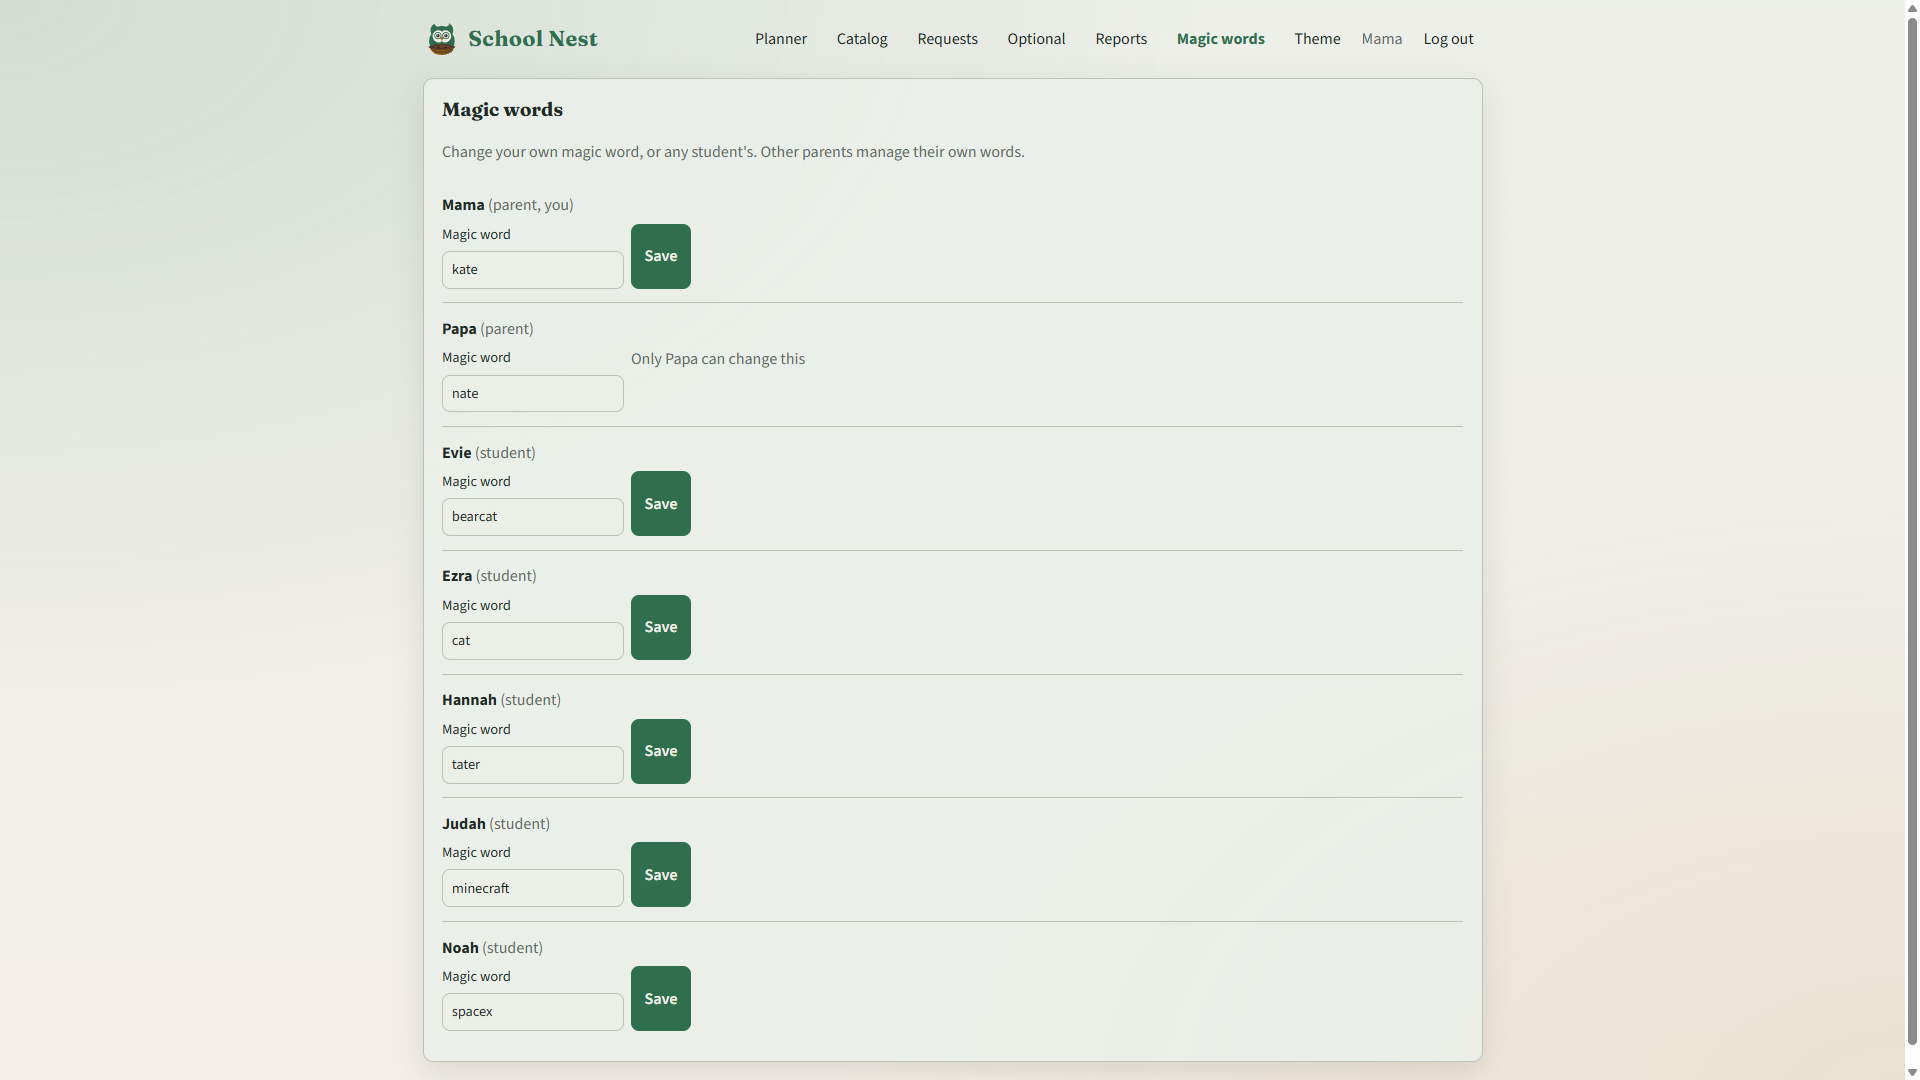
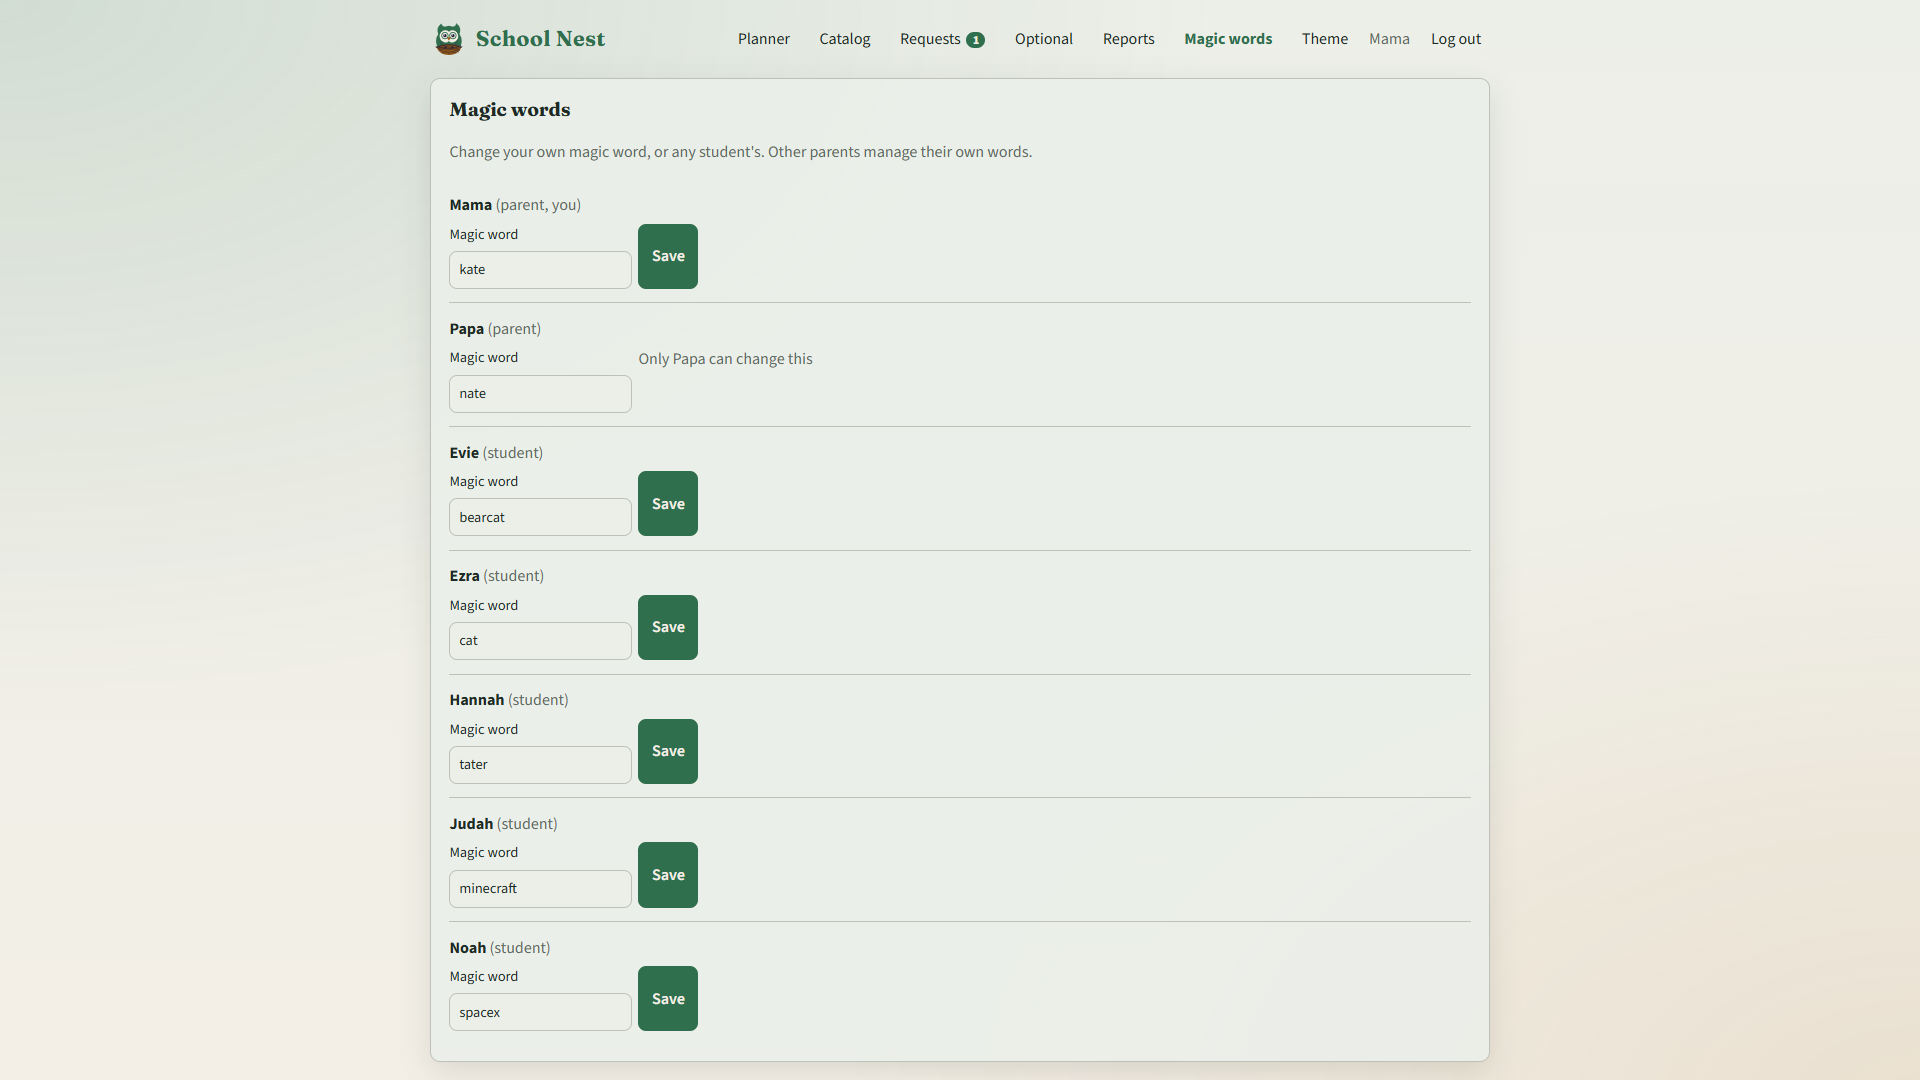
Refresh audit screenshots and put Theme fonts above presets.
Recapture walkthrough images against current planner/Today data, update the README for the drag planner and seeded optionals, and move Fonts above Presets on the theme page.

diff --git a/src/SchoolTracking/wwwroot/theme.html b/src/SchoolTracking/wwwroot/theme.html
@@ -22,15 +22,15 @@
     <div class="theme-layout">
       <div>
         <section class="panel">
-          <h2>Presets</h2>
-          <p class="muted">Click a theme to apply it right away.</p>
-          <div class="theme-preset-grid" id="preset-grid"></div>
-        </section>
-
-        <section class="panel">
           <h2>Fonts</h2>
           <p class="muted">Fun type for kids — applies right away.</p>
           <div class="theme-preset-grid" id="font-grid"></div>
+        </section>
+
+        <section class="panel">
+          <h2>Presets</h2>
+          <p class="muted">Click a theme to apply it right away.</p>
+          <div class="theme-preset-grid" id="preset-grid"></div>
         </section>
 
         <section class="panel">

diff --git a/audit-screenshots/README.md b/audit-screenshots/README.md
@@ -2,7 +2,7 @@
 
 School Nest is a self-hosted homeschool tracker: parents build a catalog and ordered day slots; students complete or defer work and log optional hours; parents approve requests and track compliance hours.
 
-Screenshots in this folder were captured from a live local run. At capture time the catalog had content but **no planned days** for Evie, so Planner / Today / Requests show empty states.
+Screenshots in this folder were captured from a live local run (1920×1080) against the Development DB. At capture time the catalog was seeded, several students had planned days, Evie’s current day was completed, and Requests showed one pending optional-hours acknowledgment.
 
 | File | Page |
 |------|------|
@@ -42,13 +42,13 @@ Auth is profile pick + magic word. `/deferrals.html` redirects to `/requests.htm
 ## End-to-end workflows
 
 1. **Curriculum setup (parent):** Catalog → add Subject → Course → catalog assignment (name, URL, default effort, description).
-2. **Schedule required work (parent):** Planner → pick student → Add planned day → Assign from catalog (MVP: one required assignment per course per day).
-3. **Do school (student):** Today → Complete (with effort) or Request deferral; optionally log freeform/list optional → Add & complete.
+2. **Schedule required work (parent):** Planner → expand a student → Add day → drag/click a subject (or course) onto a day card → pick assignment + effort in the dialog (MVP: one required assignment per course per day).
+3. **Do school (student):** Today → Complete (with effort) or Request deferral; optionally expand Optional work → list or freeform + effort → Add & complete.
 4. **Parent inbox:** Requests → approve/reject deferrals; acknowledge optional hours (optionally adjust effort first).
 5. **Parent logs optional for a kid:** Optional → student + activity + effort + date → Add completed optional → still needs Requests ack for hours.
 6. **Compliance:** Reports → date range + student → hours vs family yearly target; day calendar of full/active days.
 7. **Access:** Magic words — parent can change own + all students; cannot change other parents’ words.
-8. **Look & feel:** Theme — presets/fonts/custom colors, device-local.
+8. **Look & feel:** Theme — fonts, presets, custom colors + live preview; device-local.
 
 ---
 
@@ -68,7 +68,7 @@ Auth is profile pick + magic word. `/deferrals.html` redirects to `/requests.htm
 
 **Purpose:** Build each student’s ordered day slots and attach required catalog work.
 
-**Workflow:** Select student → Add planned day → Assign day + catalog item + effort. Per assignment: Set effort / Remove (if day not completed). Empty until days exist.
+**Workflow:** Subject/course rails on the left; per-student day rows on the right. Add a day card, then drag a subject onto it (or click subject, then day) and choose course, assignment, and effort. Empty days say “Drop a subject here.”
 
 ![Planner](02-planner.png)
 
@@ -101,7 +101,7 @@ Auth is profile pick + magic word. `/deferrals.html` redirects to `/requests.htm
 
 **Purpose:** Parent logs completed optional work for a student.
 
-**Workflow:** Student + list item or freeform name + effort + date → Add completed optional → still needs Requests ack. Freeform names join the family optional list.
+**Workflow:** Student + list item or freeform name + effort + date → Add completed optional → still needs Requests ack. Freeform names join the family optional list. Seeded list includes Free reading, Nature walk, Extra practice.
 
 ![Optional](05-optional.png)
 
@@ -129,9 +129,9 @@ Auth is profile pick + magic word. `/deferrals.html` redirects to `/requests.htm
 
 ### 8. Theme (both) — `/theme.html`
 
-**Purpose:** Device-local appearance (presets, kid fonts, custom colors + live preview).
+**Purpose:** Device-local appearance (fonts, color presets, custom colors + live preview).
 
-**Workflow:** Click preset/font or tweak colors; applies immediately, stored on device. Same page; nav differs by role.
+**Workflow:** Click a font or preset, or tweak custom colors; applies immediately and stores on this device. Same page; nav differs by role.
 
 ![Theme parent](08-theme.png)
 
@@ -146,7 +146,7 @@ Auth is profile pick + magic word. `/deferrals.html` redirects to `/requests.htm
 **Workflows:**
 
 - Required: Complete (with effort) or Request deferral; after complete, Update effort. Defer pending → “Waiting on parent”.
-- Optional: list or freeform + effort + date → Add & complete (hours await parent ack).
+- Optional: expand Optional work → list or freeform + effort → Add & complete (hours await parent ack).
 
 Empty state when no planned days: *“Ask a parent to plan work.”*
 
@@ -156,6 +156,10 @@ Empty state when no planned days: *“Ask a parent to plan work.”*
 
 ## Audit notes from capture pass
 
-- Catalog is populated (Math, Language, History, Science, Music); **no planned days** in the DB used for screenshots, so student Today and parent Requests are empty.
-- Optional list dropdowns showed only “new freeform” (no seeded optional activities).
+- Catalog is populated (Math, Language, History, Science, Music) with seeded courses/assignments.
+- Planned days exist for Evie, Hannah, and Judah; Ezra and Noah have none in the planner summary.
+- Evie’s Today shows day slot #1 completed (Math Academy 30 XP + G&B Biology Lesson 1); Reports for Evie shows 1 full day / 1 hour in range.
+- Requests badge = 1: pending optional hours for **Ezra — Nature walk** (no pending deferrals).
+- Optional list is seeded (Free reading, Nature walk, Extra practice) plus “— new freeform —”.
 - Parent Optional and student Today both create optional work that still needs Requests acknowledgment for hour credit.
+- Theme offers kid fonts (Classic, Roundabout, Comic Book, Bubble Gum, Scribbles), color presets, custom colors, and a live preview panel.
